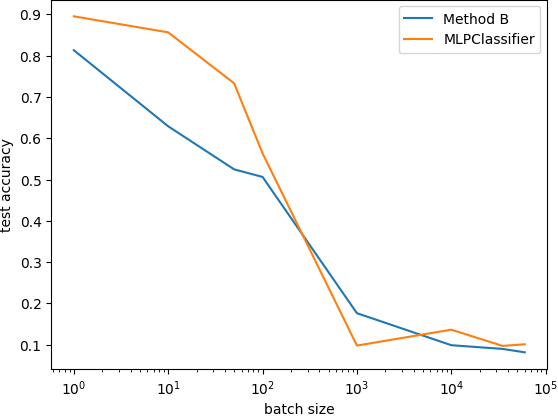
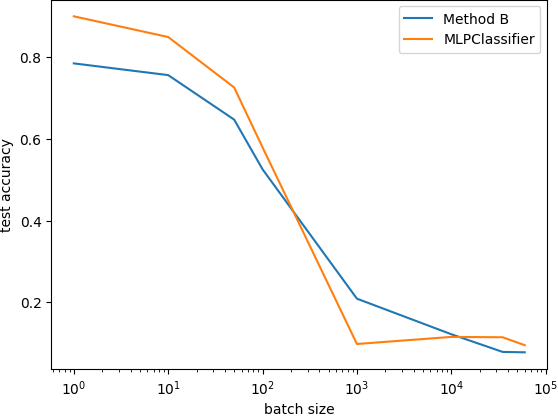
corrected results

diff --git a/test3_code/test3_sk.py b/test3_code/test3_sk.py
@@ -127,8 +127,7 @@ for ts, t in zip(train_sizes, times):
                             momentum=0,
                             nesterovs_momentum=False,
                             early_stopping=False,
-                            validation_fraction=0,
-                            random_state=0)
+                            validation_fraction=0)
 
     tracemalloc.start()
     clf = clf.fit(train_x_temp, train_y_encoded_temp)

diff --git a/test2_code/test2_sk.py b/test2_code/test2_sk.py
@@ -117,8 +117,7 @@ for bs, t in zip(batch_size, times):
                             momentum=0,
                             nesterovs_momentum=False,
                             early_stopping=False,
-                            validation_fraction=0,
-                            random_state=0)
+                            validation_fraction=0)
 
     tracemalloc.start()
     clf = clf.fit(train_x, train_y_encoded)
